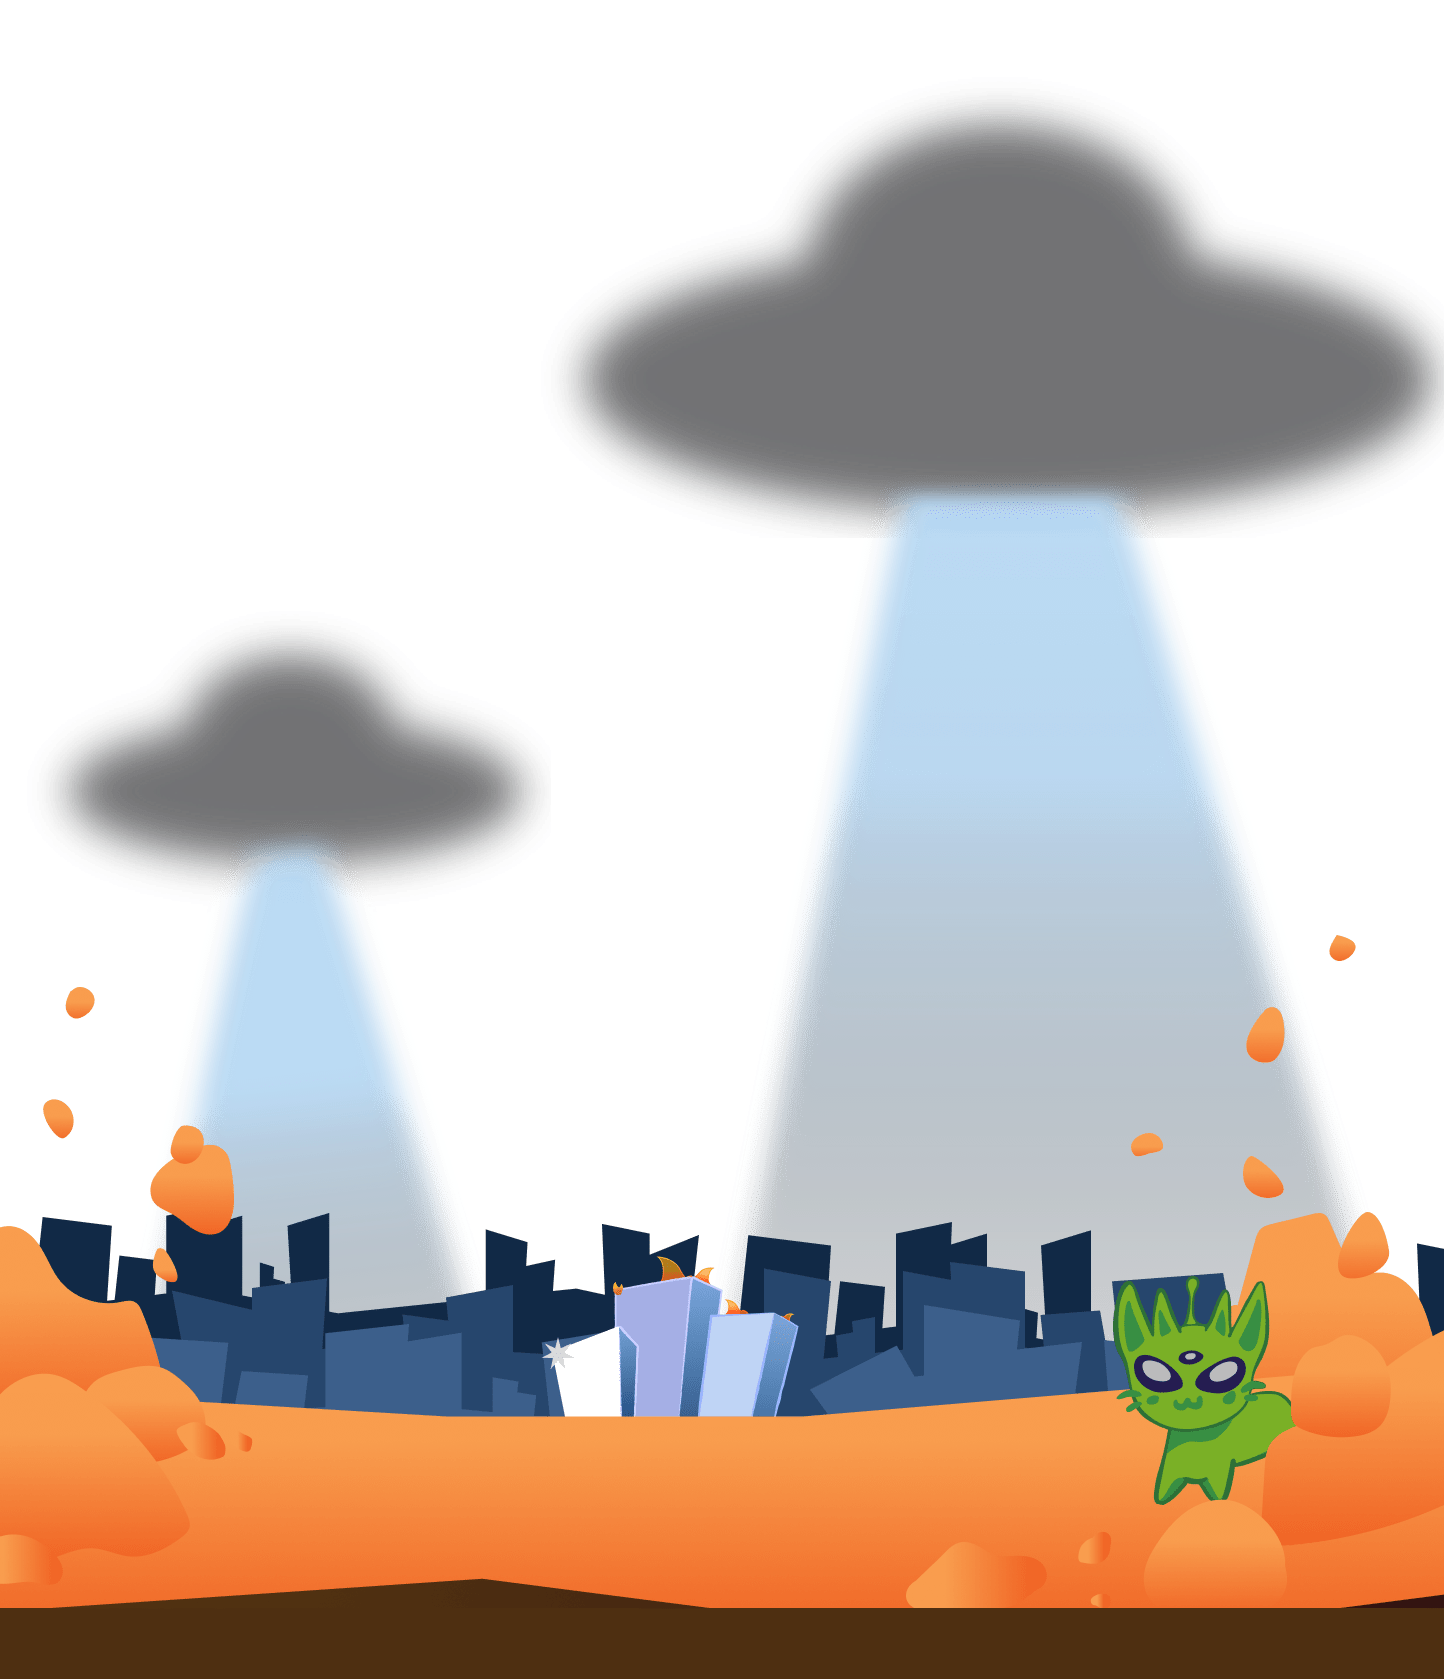
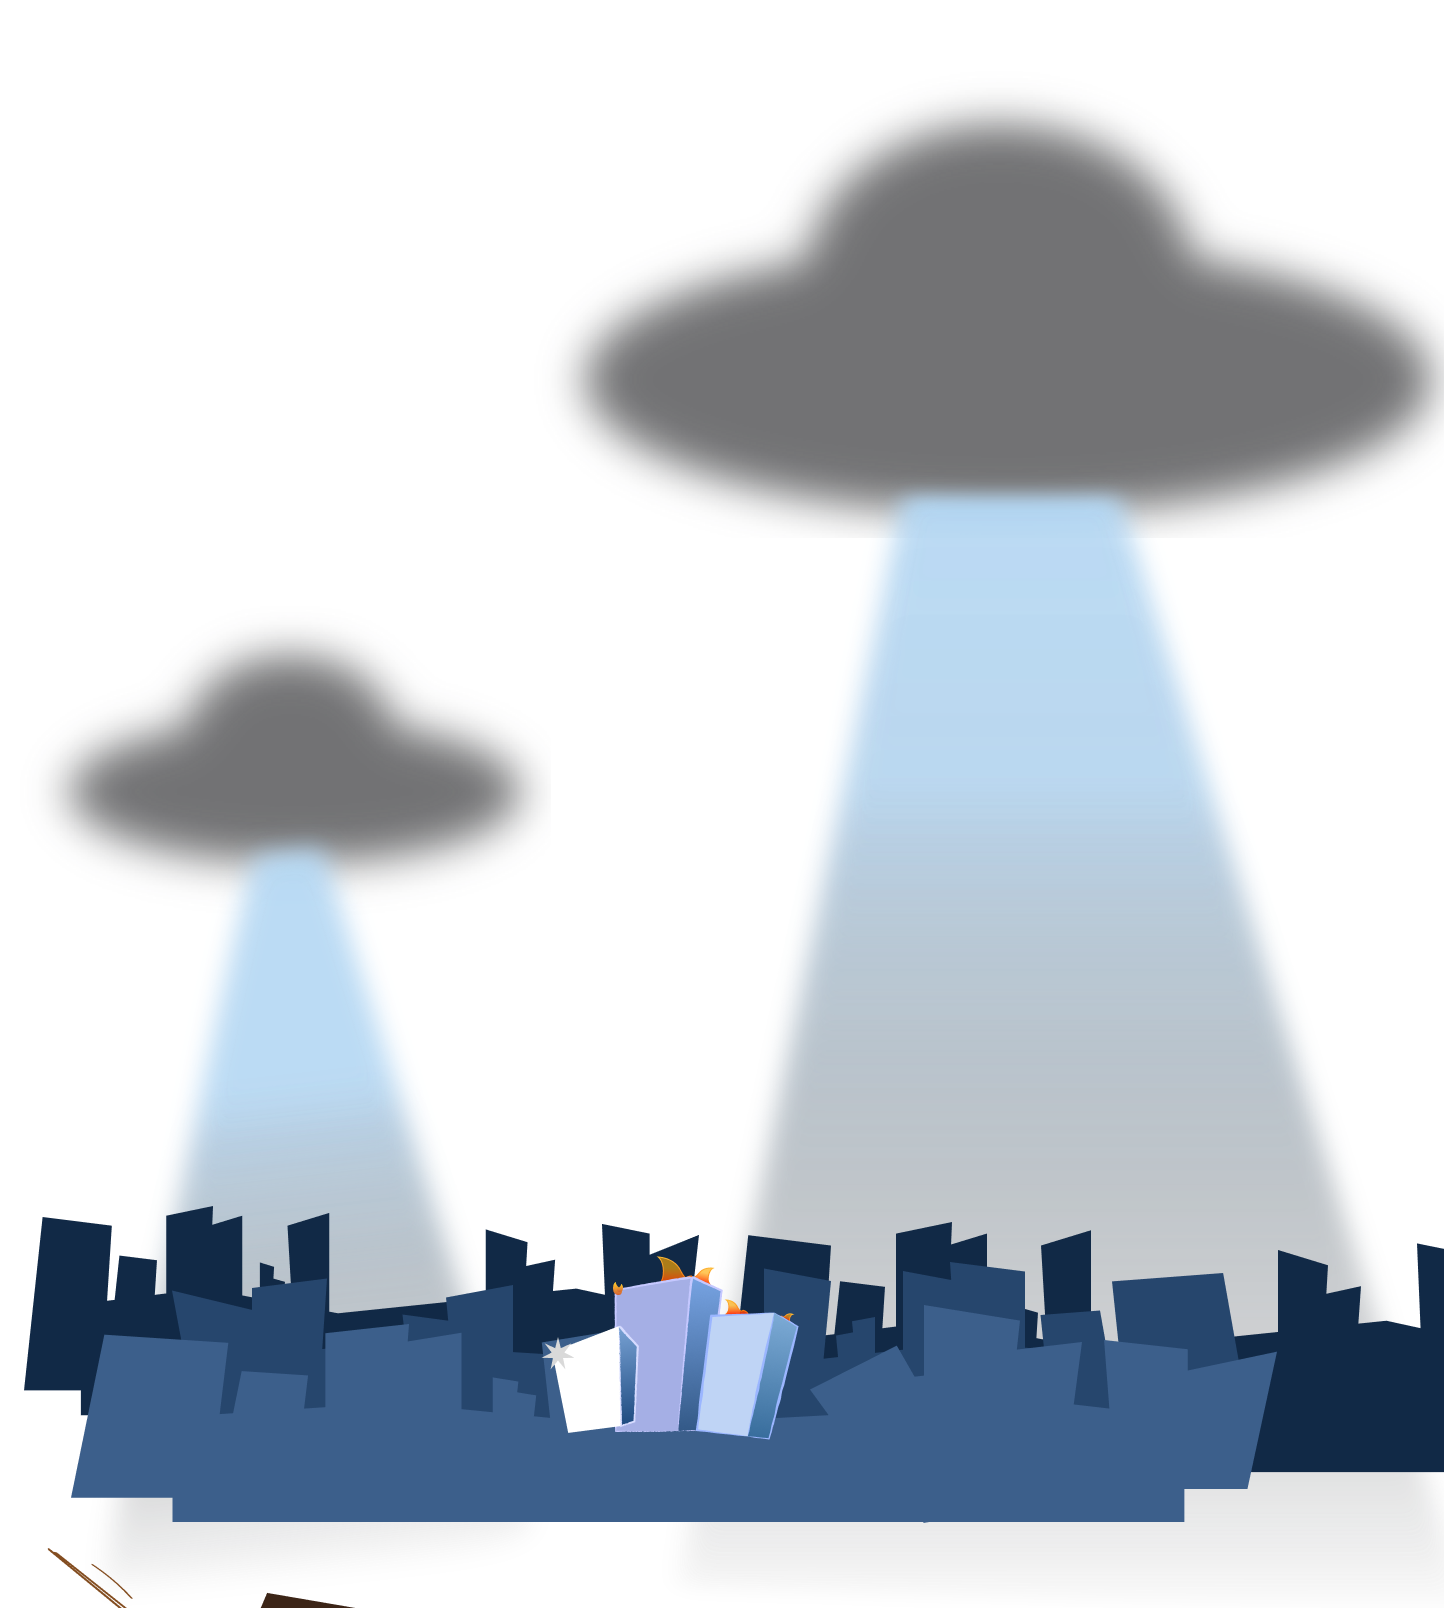
pull the foreground asset for the sponsor section out as an svg

diff --git a/app/landing/JoinUsSponsors.tsx b/app/landing/JoinUsSponsors.tsx
@@ -26,6 +26,14 @@ const JoinUsSponsors = () => {
                 priority
             />
 
+            <Image
+                src="/landing/sponsors/foreground.svg"
+                alt="Sponsors Foreground"
+                fill
+                className={styles.foreground}
+                priority
+            />
+
             <div className={styles.ufoContainer}>
                 {/* eslint-disable-next-line @next/next/no-img-element */}
                 <img

diff --git a/app/landing/JoinUsSponsors.module.scss b/app/landing/JoinUsSponsors.module.scss
@@ -254,3 +254,14 @@
         object-fit: cover;
     }
 }
+
+.foreground {
+    bottom: 0;
+    left: 0;
+    width: 100%;
+    height: 100%;
+    object-fit: contain;
+    z-index: 2;
+    // Make the foreground bottom align with the actual bottom
+    object-position: center bottom;
+}
